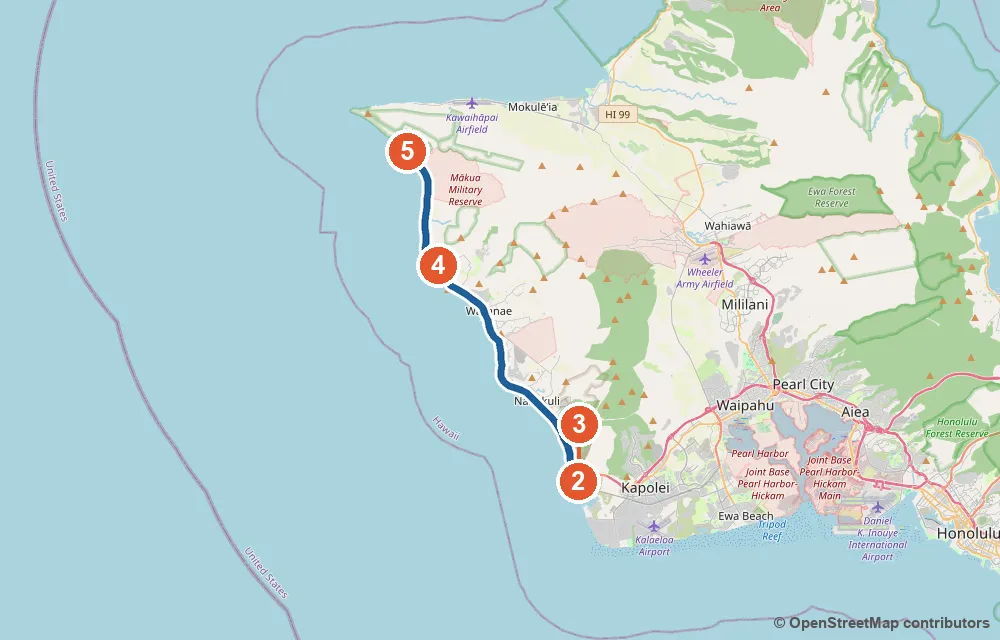
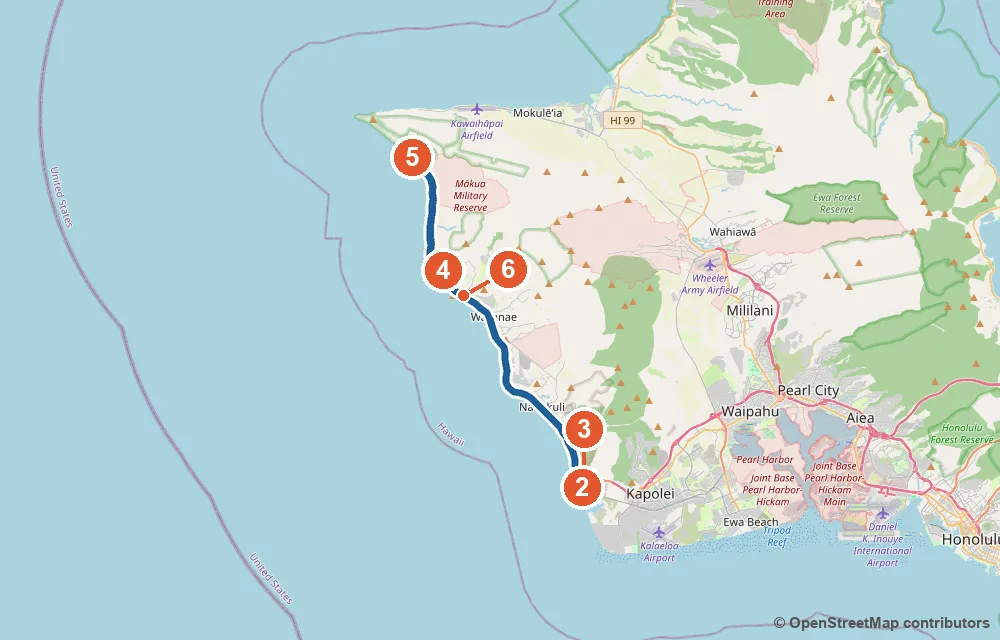
11/8 커피는 돌아오는 길 Surf & Sprout + 해변 공원 · Michel's 카페 임시휴업 제외

diff --git a/index.html b/index.html
@@ -12,7 +12,7 @@
 // GitHub Pages 는 HTML 을 10분 캐시한다(헤더는 못 바꿈) → 열 때마다 version.json 을 캐시 없이 확인해
 // 새 버전이면 주소에 ?v=버전 을 붙여 한 번만 새로 불러온다 (같은 버전으로 이미 시도했으면 멈춤)
 (function () {
-  var BUILD = 'ef92bc9a3d';
+  var BUILD = '11ba89fa84';
   try {
     fetch('version.json?t=' + Date.now(), { cache: 'no-store' })
       .then(function (r) { return r.ok ? r.json() : null; })
@@ -354,7 +354,7 @@ footer { max-width: 1100px; margin: 0 auto; padding: 0 16px 48px; color: var(--m
 </section><section class="sec hotel"><div class="sec-head"><span class="sec-ic">🏨</span><h2 id="숙소-메리어트-3박-비치타워-콘도-4박-걸어서-3분">숙소</h2><small>메리어트 3박 · 비치타워 콘도 4박 (걸어서 3분)</small></div>
 <div class="tickets"><div class="hotel"><div class="tk-top"><span>11/4 (수) – 11/7 (토) · 3박 · 아고다</span></div><div class="ht-name">와이키키 비치 메리어트 리조트 &amp; 스파</div><div class="ht-times"><div><span>체크인</span><b>15:00</b><small>11/4 (수)</small></div><div><span>체크아웃</span><b>11:00</b><small>11/7 (토)</small></div></div><dl class="ht-facts"><dt>☎ 전화</dt><dd><ul class="ht-fac"><li>한국에서 <strong>001-1-808-922-6611</strong> (KT 001 · LG U+ 002 · SK 00700)</li><li>휴대폰은 <strong><a href="tel:+18089226611">+1 808 922 6611</a></strong> (누르면 바로 걸려요)</li><li>프런트 24시간 · 하와이는 한국보다 19시간 늦어요</li></ul></dd><dt>🛏 방</dt><dd><strong>객실 2개 예약 확정</strong> — 방 1: 시티뷰 퀸 1 또는 더블 2 (성인 2) · 방 2: 와이키키 시티뷰 킹 1 + 소파베드, 발코니 (성인 3) — <strong>침대는 킹 1 + 소파베드뿐</strong> (추가 침대·침대 2개 방 변경 안 됨, 11/3 확인)</dd><dt>🚿 욕실</dt><dd>객실마다 1개</dd><dt>🍳 조식</dt><dd><strong>방마다 성인 2명 포함</strong> (전화 확인 11/3) — 2번 방 세 번째 사람은 <strong>추가 요금</strong> · 2층 Kuhio Beach Grill 뷔페 (05:00–11:00)</dd><dt>🅿 주차</dt><dd><strong>호텔 셀프 주차</strong> $65/일 · 발렛 $80/일 (세금 별도 · 셀프 3박 약 $204) — 근처 반얀 주차장은 24시간 $50 (공사 중 요금 · 높이 183cm 제한)이라 하루 $15 정도 차이 · ⚠ 후기: 셀프 주차장이 좁고 자주 꽉 차서 발렛으로 돌린 일, SUV가 높아 못 들어가 발렛 쓴 일 있음 (2024~2026) · <strong>미리 예약 필요 없음</strong> (11/3 호텔 확인)</dd><dt>🏝 시설</dt><dd><ul class="ht-fac"><li>🏊 <strong>수영장 2개</strong> — 옥상 Queensbreak에 가족 풀 + 21세 이상 성인 풀, 온수 욕조 (07:00–22:00)</li><li>🍽 <strong>식당·바·카페 7곳</strong> — Kuhio Beach Grill (조식 뷔페 05–11, 2층) · Arancino di Mare (이탈리안 저녁 17–21) · Queensbreak 레스토랑·풀사이드 바 (옥상 11–23) · 스타벅스 2곳 · Island Vintage 셰이브아이스 — Sansei·DK Steakhouse는 2025.9 폐업</li><li>🛒 <strong>ABC 스토어</strong> (로비층 편의점)</li><li>🧺 <strong>셀프 세탁실</strong> (Paoakalani 타워 2층) — 세탁·건조 각 $6.50 (2026.5 투숙 후기), 카드 결제 · 드라이클리닝 서비스 별도</li><li>💆 Royal Kaila 스파 (09–18) · 피트니스 24시간</li><li>🌺 우쿨렐레·훌라·레이 만들기 수업 (리조트피 포함)</li><li>🎭 Paina Waikiki 루아우 디너쇼 (월·수·금·토·일, 별도 예약)</li><li>🗣 일본어 직원 있음 · 한국어 직원 없음 (11/3 전화 확인)</li></ul></dd></dl><ul class="ht-notes"><li>11/4 체크인 전·11/7 체크아웃 뒤 <strong>벨데스크 짐 보관</strong></li><li>리조트피 객실당 1박 $59 + 세금 (약 $70, 현장 결제 — Wi-Fi·비치체어 또는 부기보드·문화 수업 포함)</li><li>체크인은 예약자 본인 여권 + 실물 카드</li></ul></div><div class="hotel"><div class="tk-top"><span>11/7 (토) – 11/11 (수) · 4박</span></div><div class="ht-name">와이키키 비치 타워 콘도 (에어비앤비)</div><div class="ht-times"><div><span>체크인</span><b>15:00</b><small>11/7 (토)</small></div><div><span>체크아웃</span><b>11:00</b><small>11/11 (수)</small></div></div><dl class="ht-facts"><dt>☎ 전화</dt><dd><ul class="ht-fac"><li>관리 회사(캡틴 쿡 리조트)는 <strong>에어비앤비 앱 메시지</strong></li><li>관리자 전화번호는 11/5 15:00(하와이)부터 앱의 입실 안내에 나와요</li></ul></dd><dt>🛏 방</dt><dd><strong>침실 2개</strong> — 안방 킹 1 · 게스트룸 트윈 2 (요청 시 킹 1) · 거실 퀸 소파베드 · 최대 6명 · 실내 약 107㎡ + 오션뷰 발코니</dd><dt>🚿 욕실</dt><dd><strong>2개</strong> (안방 전용 1 + 공용 1)</dd><dt>🍳 조식</dt><dd>없음 — 주방 완비, 아침은 장봐서</dd><dt>🅿 주차</dt><dd><strong>발렛 1대 무료</strong> (차 높이 188cm까지, 셔틀 크기 밴 불가) · 차량 사전 등록 필요 없음 · 머무는 동안만 · 리조트피 없음</dd><dt>🏝 시설</dt><dd><ul class="ht-fac"><li>🧺 집 안 <strong>세탁기·건조기</strong> (무료)</li><li>🏊 건물 수영장·스파·피트니스</li><li>🍳 주방 완비</li></ul></dd></dl><ul class="ht-notes"><li>체크인·체크아웃 시각은 <strong>에어비앤비 예약·호스트 안내 기준</strong></li><li>도착 후 <strong>관리자에게 전화</strong>해서 체크인</li><li>매일 청소·수건 보충 없음</li><li>커피·조미료·식용유·지퍼백 없음</li></ul></div></div>
 </section><section class="sec overview"><div class="sec-head"><span class="sec-ic">🗓</span><h2 id="1-한눈에-보기">한눈에 보기</h2></div>
-<div class="ov-grid"><a class="ov c0" href="#114-수-도착-짐부터-호텔에-가볍게"><div class="ov-head"><b>11/4</b><em>수</em><span>도착</span></div><ul><li><i>🛍</i>월마트 / 돈키호테 (장보기)</li><li><i>🍳</i>기내</li><li><i>🍱</i>Highway Inn 카카아코</li><li><i>🍽</i>🌅 DECK. 일몰 (17:30)</li></ul></a><a class="ov c1" href="#115-목-진주만-와이켈레-아울렛"><div class="ov-head"><b>11/5</b><em>목</em><span>진주만</span></div><ul><li><i>🛍</i><strong>와이켈레 아울렛</strong></li><li><i>🍳</i>메리어트 조식</li><li><i>🍱</i>Restaurant 604</li><li><i>🍽</i>🍝 Arancino (호텔 1층)</li></ul></a><a class="ov c2" href="#116-금-동부-해안-카일루아-해안-먼저-저녁은-카일루아"><div class="ov-head"><b>11/6</b><em>금</em><span>동부 해안</span></div><ul><li><i>🥾</i><strong>마카푸우 등대</strong> · (선택, 아들) 라니카이 필박스</li><li><i>🛍</i><strong>카일루아</strong> 마노아 초콜릿·Whole Foods·타운</li><li><i>🍳</i>메리어트 조식</li><li><i>🍱</i>Kalapawai Café</li><li><i>🍽</i>🍺 <strong>Yard House</strong> (워크인 · 비치워크)</li></ul></a><a class="ov c3" href="#117-토-체크아웃-와이켈레-골프-큰형나-교회-작은형부모님-비치타워-체크인"><div class="ov-head"><b>11/7</b><em>토</em><span>이동일</span></div><ul><li><i>🥾</i>⛳ <strong>와이켈레 골프 12:34</strong> (큰형·나) · <del>다이아몬드헤드</del> ❌</li><li><i>🛍</i>⛪ 교회 10~14 (작은형·부모님) · 🧳 체크아웃 → 비치타워 체크인 15:00</li><li><i>🍳</i>메리어트 조식</li><li><i>🍱</i>각자 (골프장 스낵바 · 교회)</li><li><i>🍽</i>🍚 <strong>Suntory</strong> ✅ 다녀옴 (단품 샤브)</li></ul></a><a class="ov c4" href="#118-일-코올리나-라군-수영-서쪽-해안-93번-h-mart"><div class="ov-head"><b>11/8</b><em>일</em><span>서부 (비 0%)</span></div><ul><li><i>🥾</i>🏖 <strong>코올리나 라군 수영</strong> · 93번 서쪽 해안 (마카하·요코하마)</li><li><i>🛍</i>☕ Hokulea (오션뷰) · 🛒 H Mart (귀갓길)</li><li><i>🍳</i>🏠 콘도 아침</li><li><i>🍱</i>Monkeypod 코올리나</li><li><i>🍽</i>콘도 근처 자유</li></ul></a><a class="ov c5" href="#119-월-다이아몬드헤드-산-넘어-카일루아-바다-수영"><div class="ov-head"><b>11/9</b><em>월</em><span>다이아몬드헤드 + 카일루아</span></div><ul><li><i>🥾</i><strong>다이아몬드헤드 (QR 재예약)</strong> · ⛰ 산 넘어 팔리 전망대 · 🏖 <strong>카일루아 바다 수영</strong></li><li><i>🛍</i>마노아 초콜릿 · 아일랜드 스노우</li><li><i>🍳</i>🏠 콘도 아침</li><li><i>🍱</i>Buzz's 카일루아</li><li><i>🍽</i>🐟 <strong>Nico's Pier 38</strong> (시푸드)</li></ul></a><a class="ov c6" href="#1110-화-노스쇼어-폴리네시안-문화센터-pcc"><div class="ov-head"><b>11/10</b><em>화</em><span>노스쇼어+PCC</span></div><ul><li><i>🥾</i><strong>와이메아 밸리 폭포</strong> · PCC</li><li><i>🍳</i>🏠 콘도 아침</li><li><i>🍱</i>Giovanni's 카후쿠</li><li><i>🍽</i>PCC 루아우</li></ul></a><a class="ov c7" href="#1111-수-출발-veterans-day-공휴일"><div class="ov-head"><b>11/11</b><em>수</em><span>출발</span></div><ul><li><i>🍳</i>🏠 콘도 간단히 · 무스비 포장</li><li><i>🍱</i>기내</li></ul></a></div>
+<div class="ov-grid"><a class="ov c0" href="#114-수-도착-짐부터-호텔에-가볍게"><div class="ov-head"><b>11/4</b><em>수</em><span>도착</span></div><ul><li><i>🛍</i>월마트 / 돈키호테 (장보기)</li><li><i>🍳</i>기내</li><li><i>🍱</i>Highway Inn 카카아코</li><li><i>🍽</i>🌅 DECK. 일몰 (17:30)</li></ul></a><a class="ov c1" href="#115-목-진주만-와이켈레-아울렛"><div class="ov-head"><b>11/5</b><em>목</em><span>진주만</span></div><ul><li><i>🛍</i><strong>와이켈레 아울렛</strong></li><li><i>🍳</i>메리어트 조식</li><li><i>🍱</i>Restaurant 604</li><li><i>🍽</i>🍝 Arancino (호텔 1층)</li></ul></a><a class="ov c2" href="#116-금-동부-해안-카일루아-해안-먼저-저녁은-카일루아"><div class="ov-head"><b>11/6</b><em>금</em><span>동부 해안</span></div><ul><li><i>🥾</i><strong>마카푸우 등대</strong> · (선택, 아들) 라니카이 필박스</li><li><i>🛍</i><strong>카일루아</strong> 마노아 초콜릿·Whole Foods·타운</li><li><i>🍳</i>메리어트 조식</li><li><i>🍱</i>Kalapawai Café</li><li><i>🍽</i>🍺 <strong>Yard House</strong> (워크인 · 비치워크)</li></ul></a><a class="ov c3" href="#117-토-체크아웃-와이켈레-골프-큰형나-교회-작은형부모님-비치타워-체크인"><div class="ov-head"><b>11/7</b><em>토</em><span>이동일</span></div><ul><li><i>🥾</i>⛳ <strong>와이켈레 골프 12:34</strong> (큰형·나) · <del>다이아몬드헤드</del> ❌</li><li><i>🛍</i>⛪ 교회 10~14 (작은형·부모님) · 🧳 체크아웃 → 비치타워 체크인 15:00</li><li><i>🍳</i>메리어트 조식</li><li><i>🍱</i>각자 (골프장 스낵바 · 교회)</li><li><i>🍽</i>🍚 <strong>Suntory</strong> ✅ 다녀옴 (단품 샤브)</li></ul></a><a class="ov c4" href="#118-일-코올리나-라군-수영-서쪽-해안-93번-h-mart"><div class="ov-head"><b>11/8</b><em>일</em><span>서부 (비 0%)</span></div><ul><li><i>🥾</i>🏖 <strong>코올리나 라군 수영</strong> · 93번 서쪽 해안 (마카하·요코하마)</li><li><i>🛍</i>☕ Surf &amp; Sprout (귀갓길) · 🛒 H Mart</li><li><i>🍳</i>🏠 콘도 아침</li><li><i>🍱</i>Monkeypod 코올리나</li><li><i>🍽</i>콘도 근처 자유</li></ul></a><a class="ov c5" href="#119-월-다이아몬드헤드-산-넘어-카일루아-바다-수영"><div class="ov-head"><b>11/9</b><em>월</em><span>다이아몬드헤드 + 카일루아</span></div><ul><li><i>🥾</i><strong>다이아몬드헤드 (QR 재예약)</strong> · ⛰ 산 넘어 팔리 전망대 · 🏖 <strong>카일루아 바다 수영</strong></li><li><i>🛍</i>마노아 초콜릿 · 아일랜드 스노우</li><li><i>🍳</i>🏠 콘도 아침</li><li><i>🍱</i>Buzz's 카일루아</li><li><i>🍽</i>🐟 <strong>Nico's Pier 38</strong> (시푸드)</li></ul></a><a class="ov c6" href="#1110-화-노스쇼어-폴리네시안-문화센터-pcc"><div class="ov-head"><b>11/10</b><em>화</em><span>노스쇼어+PCC</span></div><ul><li><i>🥾</i><strong>와이메아 밸리 폭포</strong> · PCC</li><li><i>🍳</i>🏠 콘도 아침</li><li><i>🍱</i>Giovanni's 카후쿠</li><li><i>🍽</i>PCC 루아우</li></ul></a><a class="ov c7" href="#1111-수-출발-veterans-day-공휴일"><div class="ov-head"><b>11/11</b><em>수</em><span>출발</span></div><ul><li><i>🍳</i>🏠 콘도 간단히 · 무스비 포장</li><li><i>🍱</i>기내</li></ul></a></div>
 
 </section><section class="sec days"><div class="sec-head"><span class="sec-ic">📍</span><h2 id="2-날짜별-상세-시간-장소-주차">날짜별 상세</h2><small>시간 · 장소 · 주차</small></div>
 <blockquote>
@@ -364,11 +364,11 @@ footer { max-width: 1100px; margin: 0 auto; padding: 0 16px 48px; color: var(--m
 </blockquote>
 <article class="day c0" data-date="11/8"><div class="day-head"><div class="date-badge"><b>11/8</b><span>일요일</span></div><div class="day-title"><h3 id="118-일-코올리나-라군-수영-서쪽-해안-93번-h-mart">🏖 코올리나 라군 수영 → 🏝 서쪽 해안 93번 → 🛒 H Mart</h3></div></div><div class="day-body">
 <p class="wx">🌤 <strong>코올리나 ☔ 0% · 요코하마 0~2%</strong> — 오늘 섬에서 가장 맑은 곳 · 🌡 23~28°C · 💨 오후 돌풍 18m (수영은 바람 약한 오전에) · 노스쇼어는 오늘 종일 비 65~76%라 <strong>11/10 PCC 날로 옮김</strong> <em>(11/8 새벽 재배치)</em></p>
-<figure class="routemap"><img src="maps/1108.webp?v=434abba30e" loading="lazy" width="1000" height="640" alt="11/8 지도"><figcaption><div class="rm-stops"><b>①</b> 비치타워 콘도 → <b>②</b> 코올리나 라군 1 → <b>③</b> Monkeypod 코올리나 → <b>④</b> 마카하 비치 → <b>⑤</b> 요코하마 베이 → <b>⑥</b> H Mart 카카아코 → <b>⑦</b> 비치타워 콘도</div><div class="rm-meta">🚗 하루 운전 약 158km · 막히지 않으면 약 3시간 19분 · 파란 선 = 차</div><div class="rm-links">🧭 구글 지도 길찾기 <a href="https://www.google.com/maps/dir/?api=1&amp;origin=Waikiki+Beach+Tower+2470+Kalakaua+Ave+Honolulu&amp;destination=Keawaula+Beach+Yokohama+Bay&amp;travelmode=driving&amp;waypoints=Ko+Olina+Lagoon+1+Kohola+Lagoon+Kapolei%7CMonkeypod+Kitchen+Ko+Olina%7CMakaha+Beach+Park" target="_blank" rel="noopener">①→⑤</a><a href="https://www.google.com/maps/dir/?api=1&amp;origin=Keawaula+Beach+Yokohama+Bay&amp;destination=Waikiki+Beach+Tower+2470+Kalakaua+Ave+Honolulu&amp;travelmode=driving&amp;waypoints=H+Mart+Kakaako+458+Keawe+St+Honolulu" target="_blank" rel="noopener">⑤→⑦</a></div></figcaption><details class="rm-zoom"><summary>🔍 확대 지도 — 서쪽 해안 (②~⑤)</summary><img src="maps/1108-zoom.webp?v=434abba30e" loading="lazy" width="1000" height="640" alt="11/8 서쪽 해안 확대 지도"></details></figure><div class="gallery"><figure><a href="https://commons.wikimedia.org/wiki/File:Dolejf2103.JPG" target="_blank" rel="noopener"><img src="https://thumb.wikimedia.org/wikipedia/commons/thumb/4/43/Dolejf2103.JPG/960px-Dolejf2103.JPG?utm_source=commons.wikimedia.org&utm_campaign=imageinfo&utm_content=thumbnail" alt="돌 플랜테이션" loading="lazy" decoding="async"></a><figcaption><b>돌 플랜테이션</b><small>© Ramon FVelasquez · CC BY-SA 3.0</small></figcaption></figure><figure><a href="https://commons.wikimedia.org/wiki/File:Haleiwa_bridge.jpg" target="_blank" rel="noopener"><img src="https://thumb.wikimedia.org/wikipedia/commons/thumb/9/92/Haleiwa_bridge.jpg/960px-Haleiwa_bridge.jpg?utm_source=commons.wikimedia.org&utm_campaign=imageinfo&utm_content=thumbnail" alt="할레이바 타운" loading="lazy" decoding="async"></a><figcaption><b>할레이바 타운</b><small>© Eric Guinther · CC BY-SA 3.0</small></figcaption></figure><figure><a href="https://commons.wikimedia.org/wiki/File:Ore_Haleiwa_Hawaii_Oahu_Matsumoto_Shave_Ice_(33673670325).jpg" target="_blank" rel="noopener"><img src="https://thumb.wikimedia.org/wikipedia/commons/thumb/1/16/Ore_Haleiwa_Hawaii_Oahu_Matsumoto_Shave_Ice_%2833673670325%29.jpg/960px-Ore_Haleiwa_Hawaii_Oahu_Matsumoto_Shave_Ice_%2833673670325%29.jpg?utm_source=commons.wikimedia.org&utm_campaign=imageinfo&utm_content=thumbnail" alt="마츠모토 셰이브아이스" loading="lazy" decoding="async"></a><figcaption><b>마츠모토 셰이브아이스</b><small>© Anthony Quintano from Honolulu, HI, Unit · CC BY 2.0</small></figcaption></figure><figure><a href="https://commons.wikimedia.org/wiki/File:Green_sea_turtle_(Chelonia_mydas)_Moorea.jpg" target="_blank" rel="noopener"><img src="https://thumb.wikimedia.org/wikipedia/commons/thumb/a/a3/Green_sea_turtle_%28Chelonia_mydas%29_Moorea.jpg/960px-Green_sea_turtle_%28Chelonia_mydas%29_Moorea.jpg?utm_source=commons.wikimedia.org&utm_campaign=imageinfo&utm_content=thumbnail" alt="바다거북 (호누)" loading="lazy" decoding="async"></a><figcaption><b>바다거북 (호누)</b><small>© Charles J. Sharp · CC BY-SA 4.0</small></figcaption></figure><figure><a href="https://commons.wikimedia.org/wiki/File:WaimeaValleyEntrance.jpg" target="_blank" rel="noopener"><img src="https://upload.wikimedia.org/wikipedia/commons/7/7d/WaimeaValleyEntrance.jpg?utm_source=commons.wikimedia.org&utm_campaign=imageinfo&utm_content=thumbnail_unscaled" alt="와이메아 밸리" loading="lazy" decoding="async"></a><figcaption><b>와이메아 밸리</b><small>© Travis.Thurston · CC BY-SA 3.0</small></figcaption></figure><figure><a href="https://commons.wikimedia.org/wiki/File:Empty_wave_at_Banzai_Pipeline.jpeg" target="_blank" rel="noopener"><img src="https://upload.wikimedia.org/wikipedia/commons/0/03/Empty_wave_at_Banzai_Pipeline.jpeg?utm_source=commons.wikimedia.org&utm_campaign=imageinfo&utm_content=thumbnail_unscaled" alt="선셋비치·파이프라인" loading="lazy" decoding="async"></a><figcaption><b>선셋비치·파이프라인</b><small>© Mat-fa · CC BY-SA 3.0</small></figcaption></figure></div><ol class="tl"><li><div class="t">07:30–08:10</div><div class="c"><div class="place">🏠 <strong>콘도 아침 (일찍·간단히)</strong></div><div class="what"><strong>수영복·수건·방수팩·선크림·갈아입을 옷</strong> 챙기기</div></div></li><li><div class="t">07:45</div><div class="c"><div class="place">📞 발렛에 8:15 출차 요청</div><div class="what">⚠ 마라톤 통제 — 나가는 길 같이 확인 (아래)</div></div></li><li><div class="t">08:15–09:00</div><div class="c"><div class="place">출발 (H-1 서쪽 · 약 40분)</div><div class="what">서쪽 방향은 통제 구간 반대쪽 · <strong>일요일 라군 주차는 9~10시 전에 차서 일찍</strong></div></div></li><li><div class="t">09:00–09:30</div><div class="c"><div class="place">☕ <a href="https://www.google.com/maps/search/?api=1&query=Hokulea+Four+Seasons+Resort+Oahu+at+Ko+Olina+92-1001+Olani+St+Kapolei" target="_blank" rel="noopener"><strong>Hokulea</strong></a> (포시즌스 코올리나 · 06–17 · 61 ★4.3)</div><div class="what"><strong>바다 보이는 실내·야외석</strong> 카페 (구글 소개) — 라군 1 바로 옆 · 커피·가벼운 빵 · 대안: <strong>Cafe Ko Olina by Michel's</strong> (35 ★4.7 · 라군 1 옆 · 야외석)</div><div class="park">🅿 라군 1 공공 주차에 세우고 걸어서</div></div></li><li><div class="t">09:30–11:45</div><div class="c"><div class="place">🏖 <a href="https://www.google.com/maps/search/?api=1&query=Ko+Olina+Lagoon+1+Kohola+Lagoon+Kapolei" target="_blank" rel="noopener"><strong>코올리나 라군 1 (Kohola) — 바다 수영</strong></a></div><div class="what"><strong>이번 여행 첫 바다 수영</strong> — 방파제로 막은 얕고 잔잔한 라군 (부모님도 OK) · 🚿 <strong>화장실·야외 샤워 무료</strong> — 라군마다 있고 "깨끗하다"는 후기가 대부분 · 샤워는 <strong>모래·소금기 헹구는 야외 찬물 샤워</strong> (칸막이 없음) → <strong>수영복은 콘도에서 입고 출발</strong>, 갈아입기는 화장실 칸, 제대로 씻는 건 콘도에서 · 라군 4엔 빙수·간단한 음식 카트도 · 🥤 마실 것·간식은 <strong>Island Country Markets</strong> (Ko Olina Center · 06–23 · 포케·샌드위치·무스비·음료 · 걸어서 5~7분) · 그늘 적음 (모자·선크림)</div><div class="park">🅿 <strong>무료 공공 주차 라군 4곳 합쳐 111칸 · 선착순</strong> — 라군 1이 차면 2 → 4 순서로 (<strong>라군 3은 공공 주차 없음</strong>) · 다 차면 라군 4 옆 마리나 유료 주차</div></div></li><li><div class="t">11:50–12:50</div><div class="c"><div class="place">🍽 <a href="https://www.google.com/maps/search/?api=1&query=Monkeypod+Kitchen+by+Merriman+92-1048+Olani+St+Kapolei" target="_blank" rel="noopener"><strong>Monkeypod Kitchen 코올리나</strong></a> (Ko Olina Center · 11:00~)</div><div class="what">점심 — 하와이 식재료 피자·버거·피시 타코 (5,538 ★4.4 · 반야외 + 라이브 음악) · 🍴 <strong>피자·샐러드 + 크림 파이</strong> (생선은 11/9 저녁 Nico's) · 워크인 · ⚠ 와이키키점 아님</div><div class="park">🅿 쇼핑센터 주차</div></div></li><li><div class="t">12:50–13:30</div><div class="c"><div class="place">93번 따라 북쪽으로</div><div class="what">나나쿨리 → 와이아나에 해안 드라이브</div></div></li><li><div class="t">13:30–13:50</div><div class="c"><div class="place"><a href="https://www.google.com/maps/search/?api=1&query=Makaha+Beach+Park" target="_blank" rel="noopener"><strong>마카하 비치 파크</strong></a></div><div class="what">서쪽 대표 해변 · 큰 파도 구경</div><div class="park">🅿 무료 · 차량털이 주의</div></div></li><li><div class="t">14:00–14:30</div><div class="c"><div class="place">🌊 <a href="https://www.google.com/maps/search/?api=1&query=Keawaula+Beach+Yokohama+Bay+Oahu" target="_blank" rel="noopener"><strong>요코하마 베이 (케아와울라 비치)</strong></a></div><div class="what"><strong>93번 도로가 끝나는 곳</strong> · 카에나 포인트 쪽 거친 해안 · 들어가진 않아요</div><div class="park">🅿 무료 · 차에 짐 안 보이게</div></div></li><li><div class="t">14:30–15:40</div><div class="c"><div class="place">복귀 (H-1 동쪽 · 약 1시간 10분)</div></div></li><li><div class="t">15:40–16:20</div><div class="c"><div class="place">🛒 <a href="https://www.google.com/maps/search/?api=1&query=H+Mart+Kakaako+458+Keawe+St+Honolulu" target="_blank" rel="noopener"><strong>H Mart 카카아코</strong></a> (458 Keawe St 2층 · 매일 08–22시 · ★4.3 · 1,197)</div><div class="what"><strong>한인 마트 장보기 — 콘도 아침거리</strong> (쌀·반찬·김·라면·국거리·과일) · 3층 푸드홀 · 바로 옆 <strong>워드 빌리지</strong>는 힘 남으면</div><div class="park">🅿 건물 주차장 (매장 인증 여부 현장 확인)</div></div></li><li><div class="t">16:30</div><div class="c"><div class="place">콘도 복귀 · 휴식</div><div class="what">샤워하고 쉬기</div><div class="park">🅿 발렛</div></div></li><li><div class="t">17:50</div><div class="c"><div class="place">➕ 선택 · 🌅 <strong>와이키키 해변 일몰</strong></div><div class="what">콘도에서 도보 3분</div><div class="park">🅿 도보</div></div></li><li><div class="t">저녁</div><div class="c"><div class="place">🏠 콘도 또는 도보 워크인</div><div class="what">H Mart 장본 걸로 집밥 · 또는 <strong>마루가메 우동</strong> (★4.5 · 도보) · <strong>Lulu's</strong> (오션뷰 · 도보 4분)</div><div class="park">🅿 도보</div></div></li></ol>
+<figure class="routemap"><img src="maps/1108.webp?v=7a6aa6a1e2" loading="lazy" width="1000" height="640" alt="11/8 지도"><figcaption><div class="rm-stops"><b>①</b> 비치타워 콘도 → <b>②</b> 코올리나 라군 1 → <b>③</b> Monkeypod 코올리나 → <b>④</b> 마카하 비치 → <b>⑤</b> 요코하마 베이 → <b>⑥</b> Surf & Sprout → <b>⑦</b> H Mart 카카아코 → <b>⑧</b> 비치타워 콘도</div><div class="rm-meta">🚗 하루 운전 약 158km · 막히지 않으면 약 3시간 20분 · 파란 선 = 차</div><div class="rm-links">🧭 구글 지도 길찾기 <a href="https://www.google.com/maps/dir/?api=1&amp;origin=Waikiki+Beach+Tower+2470+Kalakaua+Ave+Honolulu&amp;destination=Keawaula+Beach+Yokohama+Bay&amp;travelmode=driving&amp;waypoints=Ko+Olina+Lagoon+1+Kohola+Lagoon+Kapolei%7CMonkeypod+Kitchen+Ko+Olina%7CMakaha+Beach+Park" target="_blank" rel="noopener">①→⑤</a><a href="https://www.google.com/maps/dir/?api=1&amp;origin=Keawaula+Beach+Yokohama+Bay&amp;destination=Waikiki+Beach+Tower+2470+Kalakaua+Ave+Honolulu&amp;travelmode=driving&amp;waypoints=Surf+%26+Sprout+84-1170+Farrington+Hwy+Waianae%7CH+Mart+Kakaako+458+Keawe+St+Honolulu" target="_blank" rel="noopener">⑤→⑧</a></div></figcaption><details class="rm-zoom"><summary>🔍 확대 지도 — 서쪽 해안 (②~⑥)</summary><img src="maps/1108-zoom.webp?v=7a6aa6a1e2" loading="lazy" width="1000" height="640" alt="11/8 서쪽 해안 확대 지도"></details></figure><div class="gallery"><figure><a href="https://commons.wikimedia.org/wiki/File:Dolejf2103.JPG" target="_blank" rel="noopener"><img src="https://thumb.wikimedia.org/wikipedia/commons/thumb/4/43/Dolejf2103.JPG/960px-Dolejf2103.JPG?utm_source=commons.wikimedia.org&utm_campaign=imageinfo&utm_content=thumbnail" alt="돌 플랜테이션" loading="lazy" decoding="async"></a><figcaption><b>돌 플랜테이션</b><small>© Ramon FVelasquez · CC BY-SA 3.0</small></figcaption></figure><figure><a href="https://commons.wikimedia.org/wiki/File:Haleiwa_bridge.jpg" target="_blank" rel="noopener"><img src="https://thumb.wikimedia.org/wikipedia/commons/thumb/9/92/Haleiwa_bridge.jpg/960px-Haleiwa_bridge.jpg?utm_source=commons.wikimedia.org&utm_campaign=imageinfo&utm_content=thumbnail" alt="할레이바 타운" loading="lazy" decoding="async"></a><figcaption><b>할레이바 타운</b><small>© Eric Guinther · CC BY-SA 3.0</small></figcaption></figure><figure><a href="https://commons.wikimedia.org/wiki/File:Ore_Haleiwa_Hawaii_Oahu_Matsumoto_Shave_Ice_(33673670325).jpg" target="_blank" rel="noopener"><img src="https://thumb.wikimedia.org/wikipedia/commons/thumb/1/16/Ore_Haleiwa_Hawaii_Oahu_Matsumoto_Shave_Ice_%2833673670325%29.jpg/960px-Ore_Haleiwa_Hawaii_Oahu_Matsumoto_Shave_Ice_%2833673670325%29.jpg?utm_source=commons.wikimedia.org&utm_campaign=imageinfo&utm_content=thumbnail" alt="마츠모토 셰이브아이스" loading="lazy" decoding="async"></a><figcaption><b>마츠모토 셰이브아이스</b><small>© Anthony Quintano from Honolulu, HI, Unit · CC BY 2.0</small></figcaption></figure><figure><a href="https://commons.wikimedia.org/wiki/File:Green_sea_turtle_(Chelonia_mydas)_Moorea.jpg" target="_blank" rel="noopener"><img src="https://thumb.wikimedia.org/wikipedia/commons/thumb/a/a3/Green_sea_turtle_%28Chelonia_mydas%29_Moorea.jpg/960px-Green_sea_turtle_%28Chelonia_mydas%29_Moorea.jpg?utm_source=commons.wikimedia.org&utm_campaign=imageinfo&utm_content=thumbnail" alt="바다거북 (호누)" loading="lazy" decoding="async"></a><figcaption><b>바다거북 (호누)</b><small>© Charles J. Sharp · CC BY-SA 4.0</small></figcaption></figure><figure><a href="https://commons.wikimedia.org/wiki/File:WaimeaValleyEntrance.jpg" target="_blank" rel="noopener"><img src="https://upload.wikimedia.org/wikipedia/commons/7/7d/WaimeaValleyEntrance.jpg?utm_source=commons.wikimedia.org&utm_campaign=imageinfo&utm_content=thumbnail_unscaled" alt="와이메아 밸리" loading="lazy" decoding="async"></a><figcaption><b>와이메아 밸리</b><small>© Travis.Thurston · CC BY-SA 3.0</small></figcaption></figure><figure><a href="https://commons.wikimedia.org/wiki/File:Empty_wave_at_Banzai_Pipeline.jpeg" target="_blank" rel="noopener"><img src="https://upload.wikimedia.org/wikipedia/commons/0/03/Empty_wave_at_Banzai_Pipeline.jpeg?utm_source=commons.wikimedia.org&utm_campaign=imageinfo&utm_content=thumbnail_unscaled" alt="선셋비치·파이프라인" loading="lazy" decoding="async"></a><figcaption><b>선셋비치·파이프라인</b><small>© Mat-fa · CC BY-SA 3.0</small></figcaption></figure></div><ol class="tl"><li><div class="t">07:30–08:10</div><div class="c"><div class="place">🏠 <strong>콘도 아침 (일찍·간단히)</strong></div><div class="what"><strong>수영복·수건·방수팩·선크림·갈아입을 옷</strong> 챙기기</div></div></li><li><div class="t">07:45</div><div class="c"><div class="place">📞 발렛에 8:15 출차 요청</div><div class="what">⚠ 마라톤 통제 — 나가는 길 같이 확인 (아래)</div></div></li><li><div class="t">08:15–09:00</div><div class="c"><div class="place">출발 (H-1 서쪽 · 약 40분)</div><div class="what">서쪽 방향은 통제 구간 반대쪽 · <strong>일요일 라군 주차는 9~10시 전에 차서 일찍</strong> · 커피는 돌아오는 길에</div></div></li><li><div class="t">09:00–11:45</div><div class="c"><div class="place">🏖 <a href="https://www.google.com/maps/search/?api=1&query=Ko+Olina+Lagoon+1+Kohola+Lagoon+Kapolei" target="_blank" rel="noopener"><strong>코올리나 라군 1 (Kohola) — 바다 수영</strong></a></div><div class="what"><strong>이번 여행 첫 바다 수영</strong> — 방파제로 막은 얕고 잔잔한 라군 (부모님도 OK) · 🚿 <strong>화장실·야외 샤워 무료</strong> — 라군마다 있고 "깨끗하다"는 후기가 대부분 · 샤워는 <strong>모래·소금기 헹구는 야외 찬물 샤워</strong> (칸막이 없음) → <strong>수영복은 콘도에서 입고 출발</strong>, 갈아입기는 화장실 칸, 제대로 씻는 건 콘도에서 · 라군 4엔 빙수·간단한 음식 카트도 · 🥤 마실 것·간식은 <strong>Island Country Markets</strong> (Ko Olina Center · 06–23 · 포케·샌드위치·무스비·음료 · 걸어서 5~7분) · 그늘 적음 (모자·선크림)</div><div class="park">🅿 <strong>무료 공공 주차 라군 4곳 합쳐 111칸 · 선착순</strong> — 라군 1이 차면 2 → 4 순서로 (<strong>라군 3은 공공 주차 없음</strong>) · 다 차면 라군 4 옆 마리나 유료 주차</div></div></li><li><div class="t">11:50–12:50</div><div class="c"><div class="place">🍽 <a href="https://www.google.com/maps/search/?api=1&query=Monkeypod+Kitchen+by+Merriman+92-1048+Olani+St+Kapolei" target="_blank" rel="noopener"><strong>Monkeypod Kitchen 코올리나</strong></a> (Ko Olina Center · 11:00~)</div><div class="what">점심 — 하와이 식재료 피자·버거·피시 타코 (5,538 ★4.4 · 반야외 + 라이브 음악) · 🍴 <strong>피자·샐러드 + 크림 파이</strong> (생선은 11/9 저녁 Nico's) · 워크인 · ⚠ 와이키키점 아님</div><div class="park">🅿 쇼핑센터 유료 주차 (Monkeypod에서 주차 인증 → 할인)</div></div></li><li><div class="t">12:50–13:30</div><div class="c"><div class="place">93번 따라 북쪽으로</div><div class="what">나나쿨리 → 와이아나에 해안 드라이브</div></div></li><li><div class="t">13:30–13:50</div><div class="c"><div class="place"><a href="https://www.google.com/maps/search/?api=1&query=Makaha+Beach+Park" target="_blank" rel="noopener"><strong>마카하 비치 파크</strong></a></div><div class="what">서쪽 대표 해변 · 큰 파도 구경</div><div class="park">🅿 무료 · 차량털이 주의</div></div></li><li><div class="t">14:00–14:30</div><div class="c"><div class="place">🌊 <a href="https://www.google.com/maps/search/?api=1&query=Keawaula+Beach+Yokohama+Bay+Oahu" target="_blank" rel="noopener"><strong>요코하마 베이 (케아와울라 비치)</strong></a></div><div class="what"><strong>93번 도로가 끝나는 곳</strong> · 카에나 포인트 쪽 거친 해안 · 들어가진 않아요</div><div class="park">🅿 무료 · 차에 짐 안 보이게</div></div></li><li><div class="t">14:45–15:15</div><div class="c"><div class="place">☕ <strong>Surf &amp; Sprout</strong> (와이아나에 · 일 08–16 · 118 ★4.8)</div><div class="what"><strong>돌아오는 길 커피</strong> — 커피·말차·스무디·랩 · <strong>포장해서 길 건너 마우나 라히라히 비치 파크</strong>(도보 1분 · 173 ★4.4)에서 서부 해안 보며 마시기 · 라떼는 없을 수 있어요 (메뉴 확인)</div><div class="park">🅿 무료 주차</div></div></li><li><div class="t">15:15–16:15</div><div class="c"><div class="place">복귀 (H-1 동쪽 · 약 1시간)</div></div></li><li><div class="t">16:15–16:55</div><div class="c"><div class="place">🛒 <a href="https://www.google.com/maps/search/?api=1&query=H+Mart+Kakaako+458+Keawe+St+Honolulu" target="_blank" rel="noopener"><strong>H Mart 카카아코</strong></a> (458 Keawe St 2층 · 매일 08–22시 · ★4.3 · 1,197)</div><div class="what"><strong>한인 마트 장보기 — 콘도 아침거리</strong> (쌀·반찬·김·라면·국거리·과일) · 3층 푸드홀 · 바로 옆 <strong>워드 빌리지</strong>는 힘 남으면</div><div class="park">🅿 건물 주차장 (매장 인증 여부 현장 확인)</div></div></li><li><div class="t">17:05</div><div class="c"><div class="place">콘도 복귀 · 휴식</div><div class="what">샤워하고 쉬기</div><div class="park">🅿 발렛</div></div></li><li><div class="t">17:50</div><div class="c"><div class="place">➕ 선택 · 🌅 <strong>와이키키 해변 일몰</strong></div><div class="what">콘도에서 도보 3분</div><div class="park">🅿 도보</div></div></li><li><div class="t">저녁</div><div class="c"><div class="place">🏠 콘도 또는 도보 워크인</div><div class="what">H Mart 장본 걸로 집밥 · 또는 <strong>마루가메 우동</strong> (★4.5 · 도보) · <strong>Lulu's</strong> (오션뷰 · 도보 4분)</div><div class="park">🅿 도보</div></div></li></ol>
 <ul>
 <li>🔁 <strong>11/8 새벽 재배치:</strong> 노스쇼어는 오늘 비 65~76% → <strong>11/10 PCC 날로</strong> (PCC는 일·수 휴무, 와이메아 밸리는 월 휴무라 둘 다 여는 화요일로) · 서쪽은 오늘 0%</li>
 <li>⚠ <strong>오늘 아침 도로 통제:</strong> Val Nolasco 하프마라톤 05:00–11:00 — 칼라카우아·몬사랏·카피올라니 공원 일대 → <strong>07:45쯤 객실 전화로 발렛에 8:15 출차 요청 + 나가는 길 확인</strong> (쿠히오→맥컬리→H-1이면 통제 구간 안 탐)</li>
-<li>☕ <strong>서부 동선 커피 (바다 전망 우선):</strong> <strong>Hokulea</strong> 포시즌스 (61 ★4.3 · 06–17 · 오션뷰 실내·야외석) · <strong>Cafe Ko Olina Place of Joy by Michel's</strong> (35 ★4.7 · 라군 1 옆 · 야외석 · 영업시간 미확인) · 해안 길 위 <strong>Surf &amp; Sprout</strong> 와이아나에 (118 ★4.8 · 08–16 · 야외석, 바다 전망은 미확인) · 카폴레이 <strong>Island Vintage</strong> (1,185 ★4.4 · 쇼핑몰이라 전망 없음)</li>
+<li>☕ <strong>서부 동선 커피:</strong> 돌아오는 길 <strong>Surf &amp; Sprout</strong> (와이아나에 · 16시 마감 · 무료 주차 · 3주 전 후기 "커피·말차·스무디 완벽") 포장 → 길 건너 <strong>마우나 라히라히 비치 파크</strong>에서 · 대안 <strong>Island Vintage 카폴레이</strong> (1,185 ★4.4 · 21시까지 · 무료 주차 · 쇼핑몰이라 전망 없음) · <strong>Hokulea</strong> 포시즌스 (오션뷰 · 17시 마감)는 <strong>발렛·유료 주차만 있어서</strong> 아침에 라군에 세우고 걸어갈 때만 · <del>Cafe Ko Olina by Michel's</del> 임시 휴업</li>
 <li>🌅 <strong>노을까지 보려면 (선택):</strong> 요코하마 뒤 <strong>마일리 비치 파크</strong>에서 쉬다가 17:53 일몰 (또는 <strong>핑크 필박스</strong> 트레일 — 아빠·작은형·나, 1~1.5시간) → H Mart 3층 푸드홀에서 저녁 → 20시쯤 콘도</li>
 <li>⚠ <strong>서쪽 해변 주차장 차량털이 주의</strong> — 정해진 정차 지점만, 차에 짐 안 보이게 · 🚧 마카하 쪽 Farrington Hwy 전신주 공사 (10월 말~11월) — 통제 시 30분 지연 가능</li>
 <li>☔ 서쪽은 비가 거의 없지만 비 오면: <strong>비숍 박물관</strong> (실내, 매일 09–17, 하와이 역사·문화, 비거주자 주차 $16)</li>
@@ -1246,7 +1246,7 @@ footer { max-width: 1100px; margin: 0 auto; padding: 0 16px 48px; color: var(--m
 - ★4.8 이상 대안은 '리뷰 쓰면 서비스' 여부를 검증해서 의심(⚠)이면 빼요 — 옐프 평점 차이 · 개업 시기 · 현지 글<br />
 - 그 대안이 현지 평가에서 "관광객용"이거나 호불호가 갈리고, 지금 장소에 <strong>지역 수상(Hale ʻAina 등)이나 현지인 추천</strong>이 있으면 그대로 둬요.<br />
 - <strong>마지막 만찬처럼 분위기가 목적인 끼니는 예외</strong>로 해요.</p>
-<p><strong>11/3 추가 변경:</strong> 비싼 저녁 3끼를 <strong>맥주집</strong>으로 바꿨어요 — 11/5 Yard House · 11/7 Maui Brewing 와이키키 · 11/9 Waikiki Brewing (모두 숙소에서 걸어가거나 택시 5분이라 운전자도 같이 마셔요) · <strong>11/4 현지 변경:</strong> 11/4 저녁 DECK.→마루가메 우동 · <strong>11/5 저녁 Yard House→Arancino di Mare · 11/6 저녁 Buzz's→Hau Tree(해변 나무 테라스) · 11/7 저녁 Maui Brewing→Suntory(일식)</strong> (하와이식 연속·맥주집 분위기 비선호) · <strong>11/8 저녁 Haleiwa Joe's</strong> (16:30 저녁 시작 + 노을, 와이메아 베이 일몰 대신) · <strong>11/5 밤 추가: 11/6 저녁 Hau Tree→🌮 Surf N Turf Tacos</strong> (48시간 내 취소·변경 수수료 $15/인 → 예약 리스크 없는 워크인으로) · <strong>11/6 확정: Surf N Turf→🍺 Yard House 19:00</strong> (테이크아웃 분위기 → 앉아서 먹는 곳으로) · <strong>11/6 오후: 투어는 15시쯤 복귀 → 이후는 추가 일정으로 재편 (11/7·11/9)</strong> · <strong>11/9 저녁 Waikiki Brewing→🐟 Nico's Pier 38</strong> (맥주집 비선호 + 시푸드 요청) · <strong>11/6 오후: 11/7 점심 Liliha→🍽 Makai Market 푸드코트</strong> (하와이안 메뉴 피로 — 각자 골라 먹기) · 정차지는 한 줄에 하나(블로홀 교훈) · 카페는 뷰 있는 곳으로 · <strong>11/6 밤: 11/7 전면 개편</strong> — <del>다이아몬드헤드</del>·KCC·미술관·알라모아나 취소 → ⛳ 와이켈레 골프 12:34 (큰형·나) + ⛪ 교회 10~14 (작은형·부모님) · 저녁 Suntory <strong>18:30 와쇼쿠 5명 예약 완료</strong> · <strong>11/7 밤: 실제 기록</strong> — 골프 12:34~17:30 완주 (복귀는 작은형 픽업 · 우버 편도 생략) · Suntory 19:30 도착, 단품 와슈규 샤브 $60/인 — <strong>와쇼쿠는 단품 주문 가능, 다음엔 AOI 코스($82·샤브 포함)</strong> · <strong>11/7 밤 ②: 조식 외식 전부 취소</strong> — 다들 아침은 콘도에서 (11/8 Duke's·11/9 Kaila·11/10 Heavenly 예약 안 함) · <strong>11/8 귀갓길 H Mart 카카아코 장보기 추가</strong> · 콘도 도보 아침 대안 조사: Lulu's ★4.4 (오션뷰)·Barefoot ★4.4·Kai Coffee ★4.4 · <strong>11/7 밤 ③: 11/8 스탑 다이어트</strong> — 그린 월드(커피는 숙소 근처 테이크아웃)·라니아케아·헤이아우 뺌, 돌→밸리→Giovanni's→할레이바 4곳만 (이후 타운도 ☔ 비 올 때만으로) · <strong>11/7 밤 ④: 점심을 밸리 앞으로</strong> — Giovanni's 10:50 이른 점심 → 밸리 12:00~14:30 (점심·저녁 간격 3시간 → 5시간) · <strong>11/7 밤 ⑤: 11/8·11/9 재편</strong> — 11/8 오후를 서해안으로 (Haleiwa Joe's·할레이바 타운 ❌ → 요코하마 일몰 직행 + Monkeypod 저녁 · 서쪽 비 0% · 마카하는 차창) · 11/9 = 못 간 곳 만회 — 🥾 다이아몬드헤드 재예약 · 🌊 할로나 블로홀 · Buzz's 점심 · 🏖 <strong>카일루아 비치 수영</strong> (가족 요청 — 첫 바다 수영) · 아일랜드 스노우 · 마노아 초콜릿 · Nico's 유지 · <strong>11/8 새벽 ⑥: 동선 최적화</strong> — 돌 30분 → 밸리 오전 하이킹 → 점심은 돌아 나오는 길 Giovanni's 12:50 (추가 거리 0 · 요코하마 15:15 도착으로 해변 여유 +40분) · <strong>11/8 새벽 ⑦: 3일 재배치</strong> — PCC 일·수 휴무·와이메아 밸리 월 휴무 확인 → <strong>11/8 서부</strong> (코올리나 라군 수영·Monkeypod 점심·요코하마 · 비 0%) · <strong>11/9 다이아몬드헤드·블로홀·카일루아 + 팔리 전망대</strong> · <strong>11/10 노스쇼어+PCC</strong> (와이메아 밸리 09:00 → Giovanni's 카후쿠 → PCC 12:15) · 돌 플랜테이션·쿠알로아·Seven Brothers 뺌, 뵤도인은 11/9 선택 · <strong>11/8 새벽 ⑧: 사용자 정정</strong> — 11/8은 원래 서부 계획(라군 산책·마카하·요코하마·Monkeypod) + H Mart만 (바다 수영은 원래 없었음) · 11/9 할로나 블로홀 뺌 → 팔리 하이웨이로 산 넘어갔다 산 넘어 오기 · 바다 수영은 11/9 카일루아 · <strong>11/8 오전 ⑨: 코올리나 라군 1 오전 수영 확정</strong> (샤워·화장실·Island Country Markets 확인) · ☕ 오션뷰 카페 Hokulea(포시즌스) 추가 · Monkeypod 링크가 와이키키점으로 잡히던 문제 수정 (주소·장소 ID로 고정)<br />
+<p><strong>11/3 추가 변경:</strong> 비싼 저녁 3끼를 <strong>맥주집</strong>으로 바꿨어요 — 11/5 Yard House · 11/7 Maui Brewing 와이키키 · 11/9 Waikiki Brewing (모두 숙소에서 걸어가거나 택시 5분이라 운전자도 같이 마셔요) · <strong>11/4 현지 변경:</strong> 11/4 저녁 DECK.→마루가메 우동 · <strong>11/5 저녁 Yard House→Arancino di Mare · 11/6 저녁 Buzz's→Hau Tree(해변 나무 테라스) · 11/7 저녁 Maui Brewing→Suntory(일식)</strong> (하와이식 연속·맥주집 분위기 비선호) · <strong>11/8 저녁 Haleiwa Joe's</strong> (16:30 저녁 시작 + 노을, 와이메아 베이 일몰 대신) · <strong>11/5 밤 추가: 11/6 저녁 Hau Tree→🌮 Surf N Turf Tacos</strong> (48시간 내 취소·변경 수수료 $15/인 → 예약 리스크 없는 워크인으로) · <strong>11/6 확정: Surf N Turf→🍺 Yard House 19:00</strong> (테이크아웃 분위기 → 앉아서 먹는 곳으로) · <strong>11/6 오후: 투어는 15시쯤 복귀 → 이후는 추가 일정으로 재편 (11/7·11/9)</strong> · <strong>11/9 저녁 Waikiki Brewing→🐟 Nico's Pier 38</strong> (맥주집 비선호 + 시푸드 요청) · <strong>11/6 오후: 11/7 점심 Liliha→🍽 Makai Market 푸드코트</strong> (하와이안 메뉴 피로 — 각자 골라 먹기) · 정차지는 한 줄에 하나(블로홀 교훈) · 카페는 뷰 있는 곳으로 · <strong>11/6 밤: 11/7 전면 개편</strong> — <del>다이아몬드헤드</del>·KCC·미술관·알라모아나 취소 → ⛳ 와이켈레 골프 12:34 (큰형·나) + ⛪ 교회 10~14 (작은형·부모님) · 저녁 Suntory <strong>18:30 와쇼쿠 5명 예약 완료</strong> · <strong>11/7 밤: 실제 기록</strong> — 골프 12:34~17:30 완주 (복귀는 작은형 픽업 · 우버 편도 생략) · Suntory 19:30 도착, 단품 와슈규 샤브 $60/인 — <strong>와쇼쿠는 단품 주문 가능, 다음엔 AOI 코스($82·샤브 포함)</strong> · <strong>11/7 밤 ②: 조식 외식 전부 취소</strong> — 다들 아침은 콘도에서 (11/8 Duke's·11/9 Kaila·11/10 Heavenly 예약 안 함) · <strong>11/8 귀갓길 H Mart 카카아코 장보기 추가</strong> · 콘도 도보 아침 대안 조사: Lulu's ★4.4 (오션뷰)·Barefoot ★4.4·Kai Coffee ★4.4 · <strong>11/7 밤 ③: 11/8 스탑 다이어트</strong> — 그린 월드(커피는 숙소 근처 테이크아웃)·라니아케아·헤이아우 뺌, 돌→밸리→Giovanni's→할레이바 4곳만 (이후 타운도 ☔ 비 올 때만으로) · <strong>11/7 밤 ④: 점심을 밸리 앞으로</strong> — Giovanni's 10:50 이른 점심 → 밸리 12:00~14:30 (점심·저녁 간격 3시간 → 5시간) · <strong>11/7 밤 ⑤: 11/8·11/9 재편</strong> — 11/8 오후를 서해안으로 (Haleiwa Joe's·할레이바 타운 ❌ → 요코하마 일몰 직행 + Monkeypod 저녁 · 서쪽 비 0% · 마카하는 차창) · 11/9 = 못 간 곳 만회 — 🥾 다이아몬드헤드 재예약 · 🌊 할로나 블로홀 · Buzz's 점심 · 🏖 <strong>카일루아 비치 수영</strong> (가족 요청 — 첫 바다 수영) · 아일랜드 스노우 · 마노아 초콜릿 · Nico's 유지 · <strong>11/8 새벽 ⑥: 동선 최적화</strong> — 돌 30분 → 밸리 오전 하이킹 → 점심은 돌아 나오는 길 Giovanni's 12:50 (추가 거리 0 · 요코하마 15:15 도착으로 해변 여유 +40분) · <strong>11/8 새벽 ⑦: 3일 재배치</strong> — PCC 일·수 휴무·와이메아 밸리 월 휴무 확인 → <strong>11/8 서부</strong> (코올리나 라군 수영·Monkeypod 점심·요코하마 · 비 0%) · <strong>11/9 다이아몬드헤드·블로홀·카일루아 + 팔리 전망대</strong> · <strong>11/10 노스쇼어+PCC</strong> (와이메아 밸리 09:00 → Giovanni's 카후쿠 → PCC 12:15) · 돌 플랜테이션·쿠알로아·Seven Brothers 뺌, 뵤도인은 11/9 선택 · <strong>11/8 새벽 ⑧: 사용자 정정</strong> — 11/8은 원래 서부 계획(라군 산책·마카하·요코하마·Monkeypod) + H Mart만 (바다 수영은 원래 없었음) · 11/9 할로나 블로홀 뺌 → 팔리 하이웨이로 산 넘어갔다 산 넘어 오기 · 바다 수영은 11/9 카일루아 · <strong>11/8 오전 ⑨: 코올리나 라군 1 오전 수영 확정</strong> (샤워·화장실·Island Country Markets 확인) · ☕ 오션뷰 카페 Hokulea(포시즌스) 추가 · Monkeypod 링크가 와이키키점으로 잡히던 문제 수정 (주소·장소 ID로 고정) · <strong>⑩ 커피는 돌아오는 길로</strong> — Surf &amp; Sprout(와이아나에, 무료 주차) 포장 → 마우나 라히라히 비치 파크 · Hokulea는 발렛·유료 주차만이라 오후엔 비추천 · Michel's 카페 임시 휴업<br />
 <strong>결과:</strong> 식사 <strong>4끼를 바꿨어요</strong> — 11/4 저녁 DECK. · 11/5 저녁 Tommy Bahama · 11/8 아침 Duke's 조식 뷔페 · 11/10 아침 Heavenly. 기준에 걸린 나머지 3끼(11/4 점심 · 11/7 점심 · 11/9 아침)는 비교해 보고 그대로 뒀어요 <em>(11/7 점심은 이후 11/6에 푸드코트로 변경)</em>. 커피 4곳은 앞서 바꿨고, 트로피컬 팜스는 선택 정차로 더했어요.<br />
 숫자는 11/3에 <strong>구글 지도 API로 직접 받은 값</strong>이에요(리뷰 수 · ★평점). "리뷰 수 1위"는 사람이 가장 많이 갔다는 뜻이고 맛 순위는 아니에요.</p>
 </blockquote>
@@ -1917,15 +1917,16 @@ footer { max-width: 1100px; margin: 0 auto; padding: 0 16px 48px; color: var(--m
 </ul>
 <h3 id="118-일-코올리나-수영-서쪽-해안-h-mart">🗓 11/8 (일) 코올리나 수영 · 서쪽 해안 · H Mart</h3>
 <ul>
-<li><a href="https://www.google.com/maps/search/?api=1&amp;query=Hokulea+Four+Seasons+Resort+Oahu+at+Ko+Olina&amp;query_place_id=ChIJU7s-O7xiAHwRcUJ1ZuoX59s" target="_blank" rel="noopener">☕ Hokulea (포시즌스 코올리나) — 오션뷰 커피 (06–17)</a></li>
-<li><a href="https://www.google.com/maps/search/?api=1&amp;query=Cafe+Ko+Olina+Place+of+Joy+by+Michel%27s&amp;query_place_id=ChIJYR3mArJjAHwRbqWX1_vU8kw" target="_blank" rel="noopener">☕ Cafe Ko Olina by Michel's — 커피 대안 (라군 1 옆)</a></li>
+<li><a href="https://www.google.com/maps/search/?api=1&amp;query=Hokulea+Four+Seasons+Resort+Oahu+at+Ko+Olina&amp;query_place_id=ChIJU7s-O7xiAHwRcUJ1ZuoX59s" target="_blank" rel="noopener">☕ Hokulea (포시즌스 코올리나) — 오션뷰 커피 (아침에만 · 발렛·유료 주차)</a></li>
 <li><a href="https://www.google.com/maps/search/?api=1&amp;query=Ko+Olina+Lagoon+1&amp;query_place_id=ChIJA4G4SXdjAHwRHbjH-BwEMMQ" target="_blank" rel="noopener">🏖 코올리나 라군 1 (Kohola) — 수영 (일요일 주차 일찍)</a></li>
 <li><a href="https://www.google.com/maps/search/?api=1&amp;query=Ko+Olina+Lagoon+4&amp;query_place_id=ChIJgd5r-bZiAHwRmjcEgVrpnjc" target="_blank" rel="noopener">🏖 코올리나 라군 4 (Ulua) — 주차 대안 (빙수·음식 카트)</a></li>
 <li><a href="https://www.google.com/maps/search/?api=1&amp;query=Island+Country+Markets+Ko+Olina&amp;query_place_id=ChIJQWQPFb5iAHwRokQeVeb4YQs" target="_blank" rel="noopener">🥤 Island Country Markets — 간식·음료 (06–23)</a></li>
 <li><a href="https://www.google.com/maps/search/?api=1&amp;query=Monkeypod+Kitchen+by+Merriman+92-1048+Olani+St+Kapolei&amp;query_place_id=ChIJtezTO75iAHwRxYYVYN-ngXM" target="_blank" rel="noopener">🍽 Monkeypod Kitchen 코올리나 — 점심 (와이키키점 아님)</a></li>
 <li><a href="https://www.google.com/maps/search/?api=1&amp;query=Makaha+Beach+Park" target="_blank" rel="noopener">마카하 비치 파크 — 큰 파도 구경</a></li>
 <li><a href="https://www.google.com/maps/search/?api=1&amp;query=Keawaula+Beach+Yokohama+Bay" target="_blank" rel="noopener">🌊 요코하마 베이 — 93번 도로 끝</a></li>
-<li><a href="https://www.google.com/maps/search/?api=1&amp;query=Surf+%26+Sprout+Waianae&amp;query_place_id=ChIJ-Tm-9MWLAHwRvDwBjWQxu_s" target="_blank" rel="noopener">☕ Surf &amp; Sprout (와이아나에) — 해안 길 위 카페 (08–16)</a></li>
+<li><a href="https://www.google.com/maps/search/?api=1&amp;query=Surf+%26+Sprout+Waianae&amp;query_place_id=ChIJ-Tm-9MWLAHwRvDwBjWQxu_s" target="_blank" rel="noopener">☕ Surf &amp; Sprout (와이아나에) — 돌아오는 길 커피 (16시 마감)</a></li>
+<li><a href="https://www.google.com/maps/search/?api=1&amp;query=Mauna+Lahilahi+Beach+Park&amp;query_place_id=ChIJBSdLQKSLAHwRCHjozUGU5WA" target="_blank" rel="noopener">🏖 마우나 라히라히 비치 파크 — 커피 들고 바다 보기 (Surf &amp; Sprout 길 건너)</a></li>
+<li><a href="https://www.google.com/maps/search/?api=1&amp;query=Island+Vintage+Coffee+Kapolei&amp;query_place_id=ChIJx1oSPb5iAHwRemmEvUadjdg" target="_blank" rel="noopener">☕ Island Vintage 카폴레이 — 커피 대안 (무료 주차)</a></li>
 <li><a href="https://www.google.com/maps/search/?api=1&amp;query=Maili+Beach+Park" target="_blank" rel="noopener">🌅 마일리 비치 파크 — 노을 선택</a></li>
 <li><a href="https://www.google.com/maps/search/?api=1&amp;query=Puu+O+Hulu+Pink+Pillbox+Trailhead" target="_blank" rel="noopener">🥾 핑크 필박스 (Puʻu O Hulu) — 노을 트레일 선택</a></li>
 <li><a href="https://www.google.com/maps/search/?api=1&amp;query=H+Mart+Kakaako+458+Keawe+St+Honolulu" target="_blank" rel="noopener">🛒 H Mart 카카아코 — 귀갓길 한인 마트 (08–22시)</a></li>
@@ -2490,9 +2491,10 @@ footer { max-width: 1100px; margin: 0 auto; padding: 0 16px 48px; color: var(--m
 
 11/8(일) 🏖 코올리나 수영 + 서쪽 해안 (오늘 비 0%)
 · 🏠 콘도 아침 → 08:15 출발 (⚠ 마라톤 — 07:45 발렛 전화)
-· ☕ Hokulea (포시즌스 오션뷰 카페) → 🏖 코올리나 라군 1 수영 (샤워·화장실·마트)
+· 🏖 코올리나 라군 1 수영 (샤워·화장실·마트)
 · 🍽 Monkeypod 코올리나 점심 → 마카하 → 🌊 요코하마 베이
-· 🛒 귀갓길 H Mart 카카아코 → 16:30 콘도
+· ☕ 돌아오는 길 Surf &amp; Sprout 커피 → 바로 앞 해변 공원에서
+· 🛒 귀갓길 H Mart 카카아코 → 17:00 콘도
 
 11/9(월) 🥾 다이아몬드헤드 + ⛰ 산 넘어 🏖 카일루아 수영
 · 🏠 콘도 아침 → 🥾 다이아몬드헤드 (⚠ QR 재예약)
@@ -2568,7 +2570,7 @@ footer { max-width: 1100px; margin: 0 auto; padding: 0 16px 48px; color: var(--m
 ☐ 위탁 수하물 23kg 초과 주의 — 귀국 때 아울렛 쇼핑 짐도
 ☐ 액체류 100ml 이하·투명 지퍼백 (총 1L) · 보조배터리는 기내 가방에</pre></div></section>
 </main>
-<footer>업데이트 2026-11-08 23:40 KST · 영업시간·주차는 2026-11-02 웹 조사 + Codex 검수 기준입니다. (미확인) 항목은 방문 전날 구글맵·전화로 다시 확인하세요. 체크 표시는 이 기기에만 저장됩니다. 사진: Wikimedia Commons 자유 이용 사진 — 사진을 누르면 저작자·라이선스 원문으로 이동합니다.</footer>
+<footer>업데이트 2026-11-08 23:45 KST · 영업시간·주차는 2026-11-02 웹 조사 + Codex 검수 기준입니다. (미확인) 항목은 방문 전날 구글맵·전화로 다시 확인하세요. 체크 표시는 이 기기에만 저장됩니다. 사진: Wikimedia Commons 자유 이용 사진 — 사진을 누르면 저작자·라이선스 원문으로 이동합니다.</footer>
 <button class="top-btn" id="topBtn" aria-label="맨 위로">↑</button>
 <script>
 (function () {
